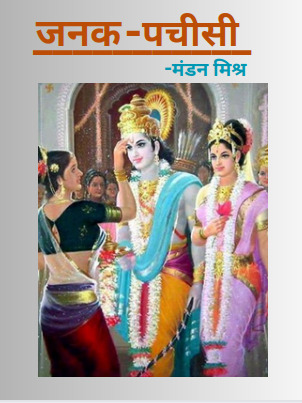
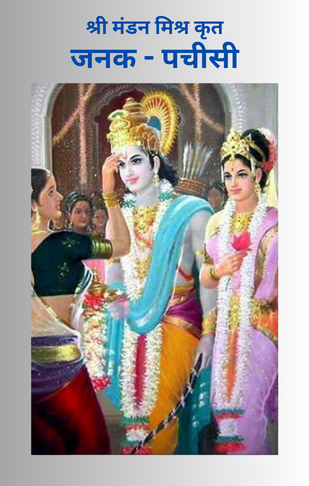
add image for scriptures

diff --git a/app/assets/stylesheets/scripture.css.scss b/app/assets/stylesheets/scripture.css.scss
@@ -51,3 +51,7 @@
   color: white;
   padding: 8px 4px;
 }
+
+.scripture-img{
+  border: 2px solid lightgreen;
+}
